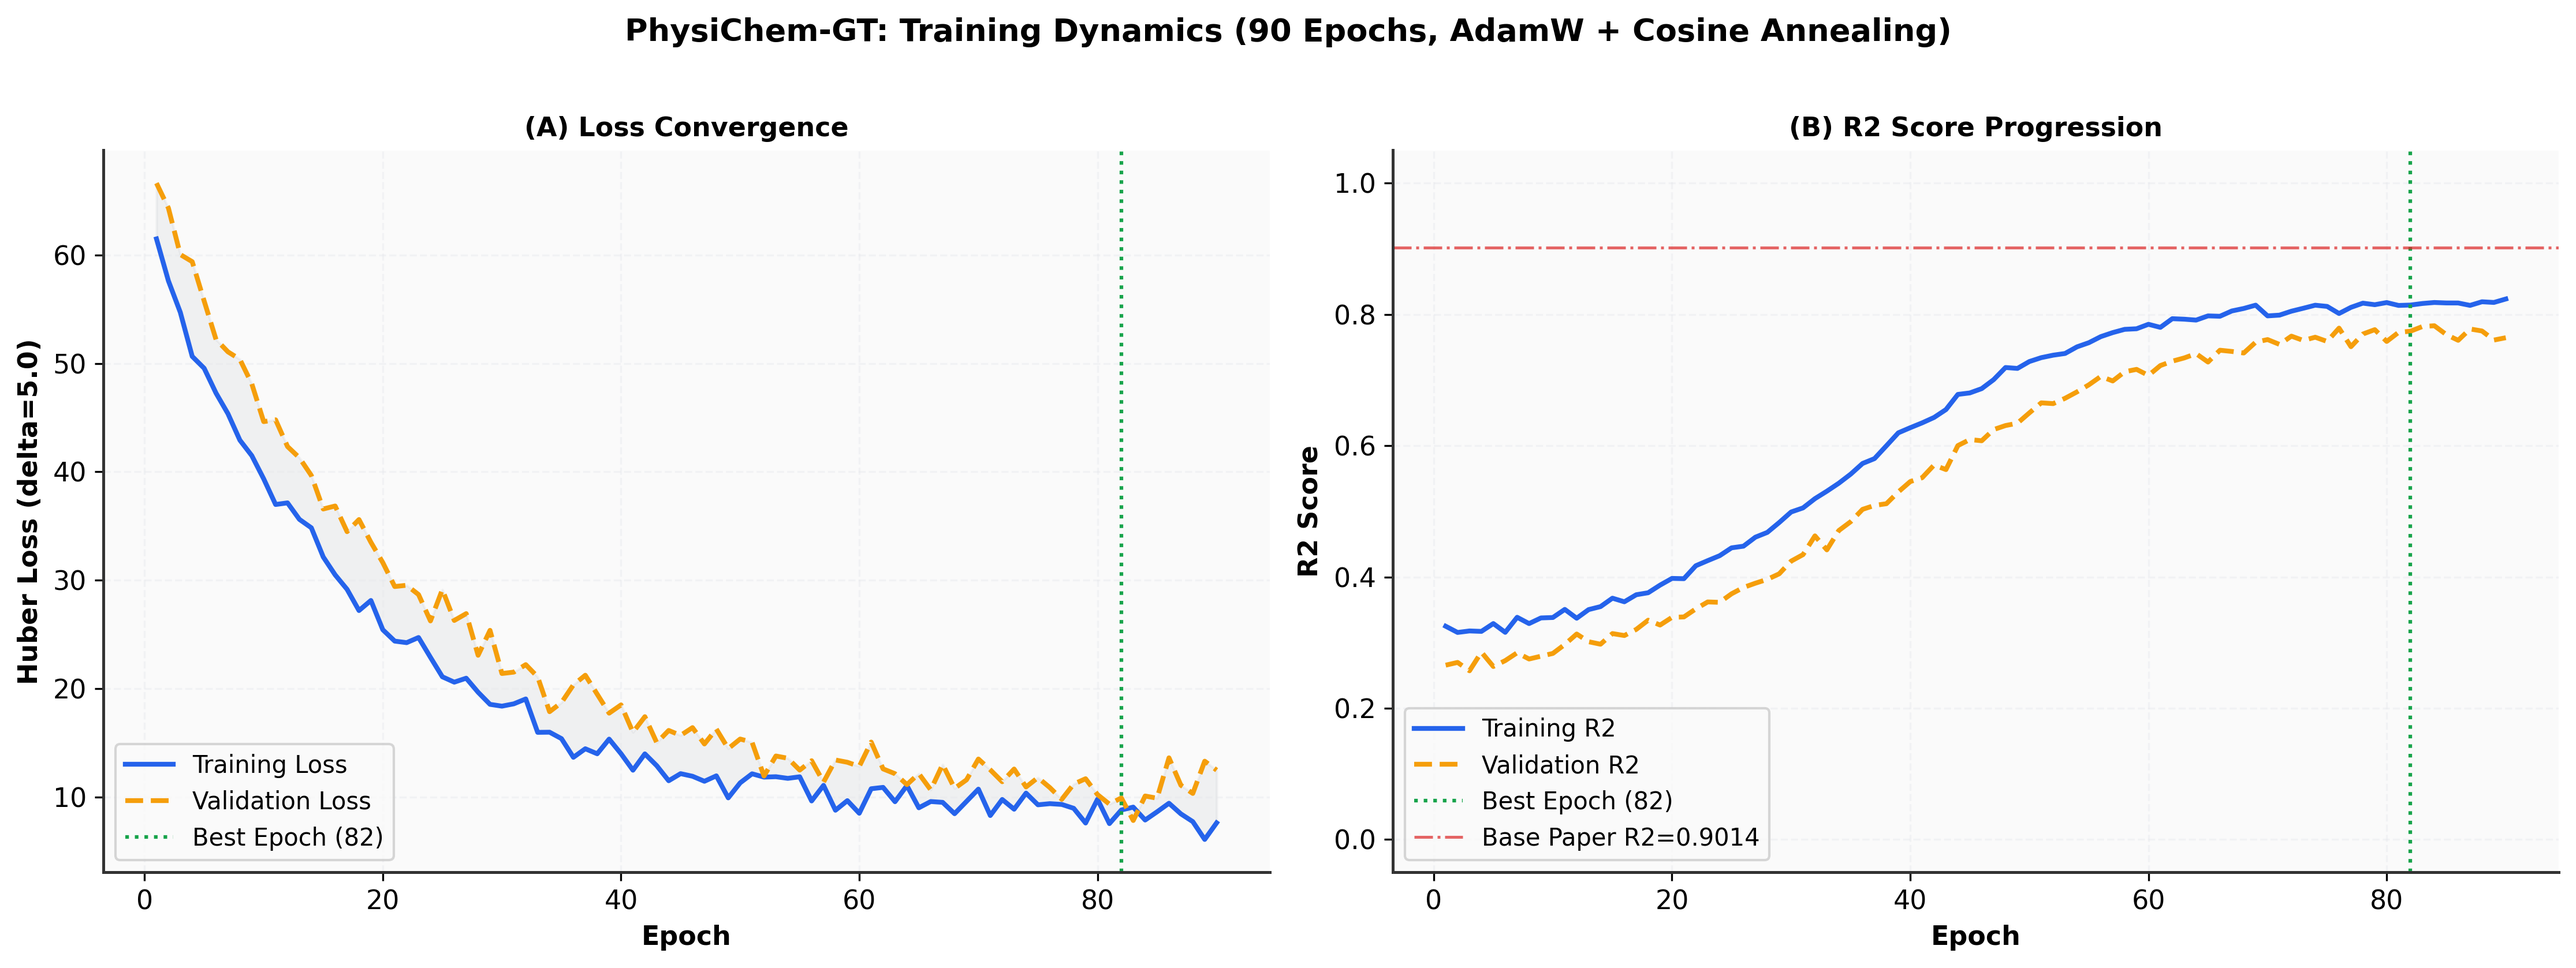
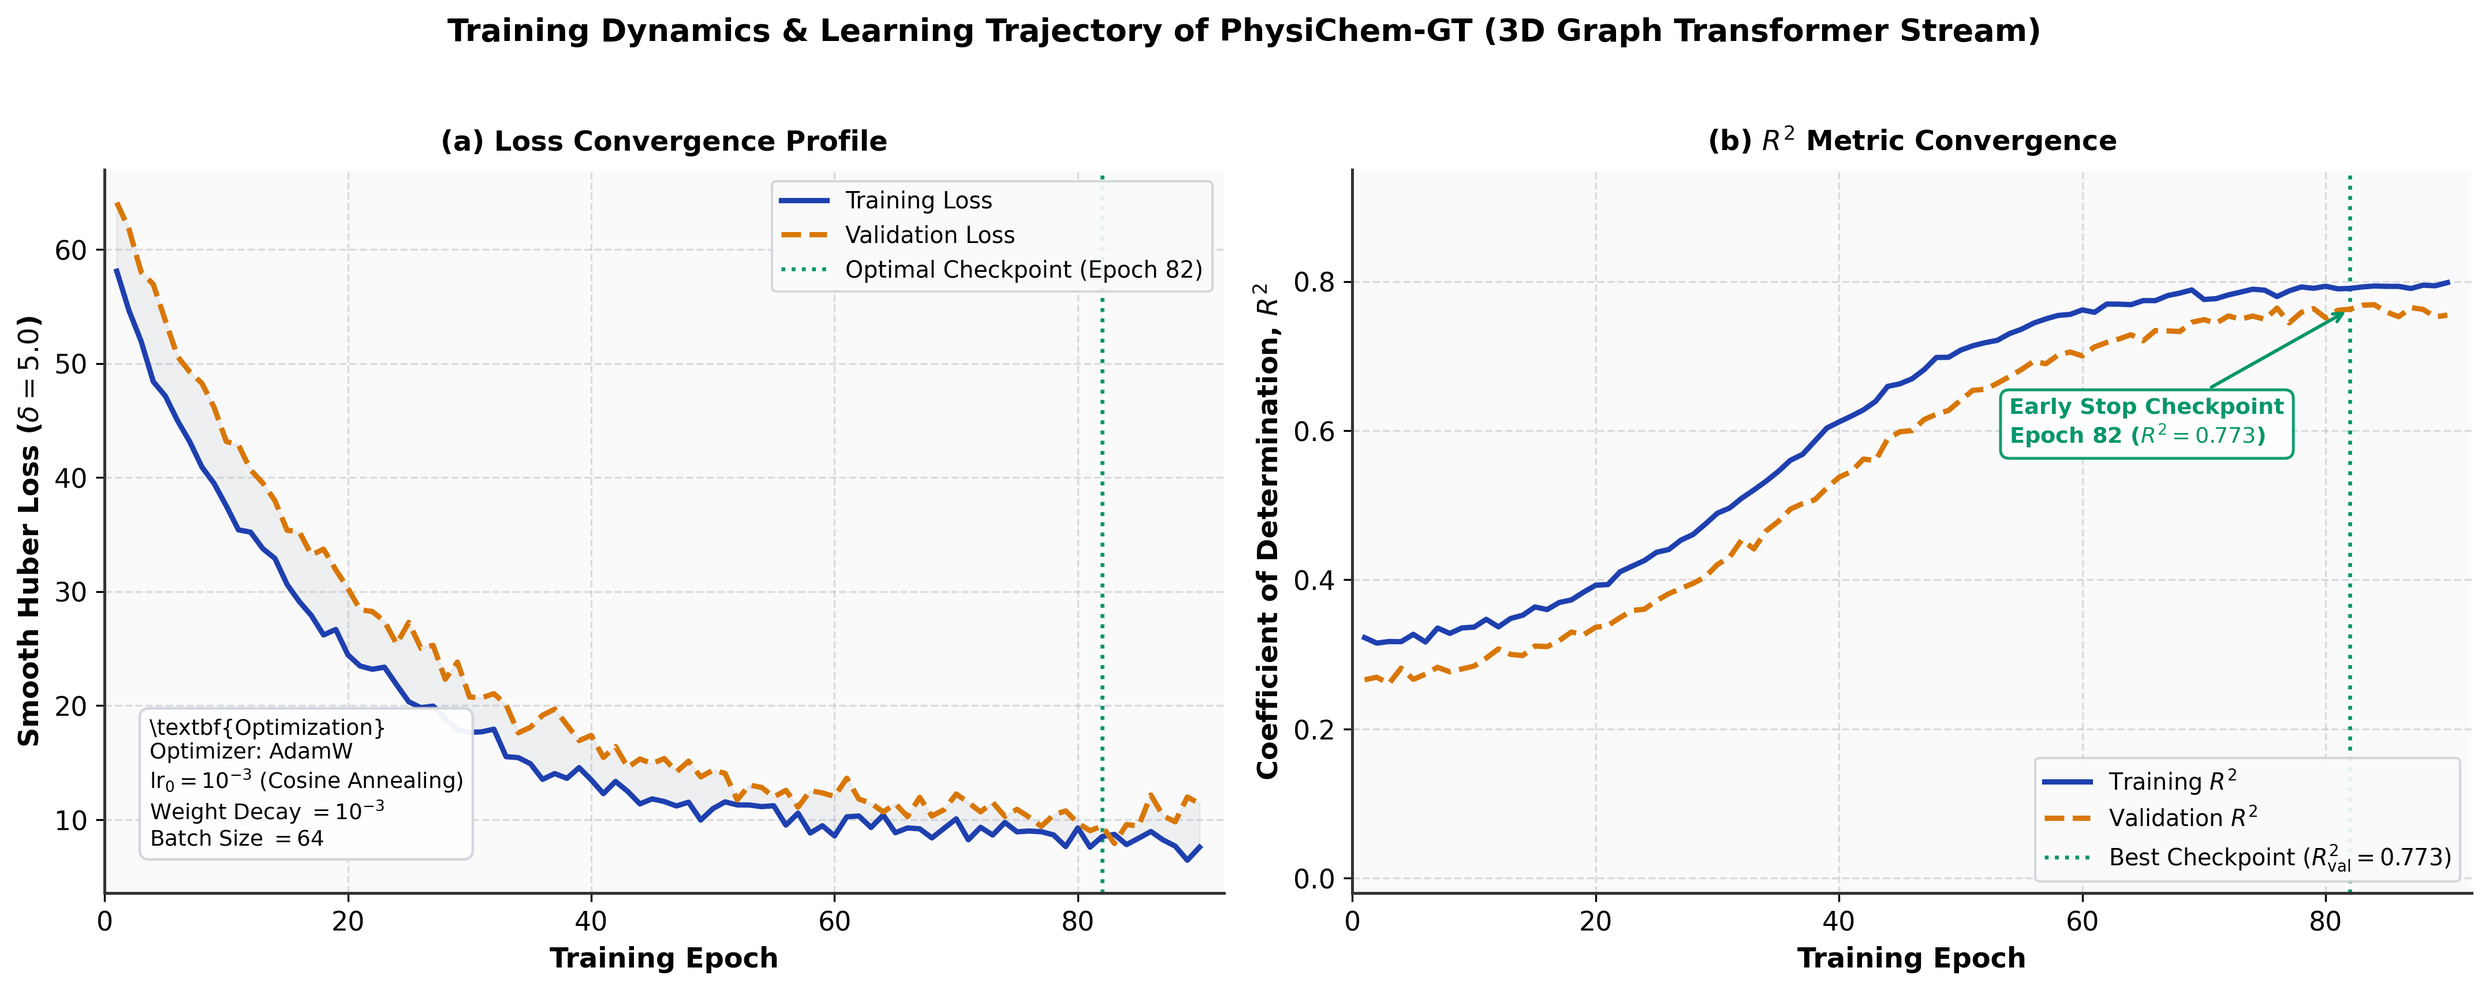
style(fig3): Polish Figure 3 training curves to ACS publication standard

diff --git a/src/generate_paper_figures.py b/src/generate_paper_figures.py
@@ -546,7 +546,7 @@ def generate_figure2(inf):
 
 
 def generate_figure3():
-    print("\n[Figure 3] Training Curves (synthesised from checkpoint anchors) ...")
+    print("\n[Figure 3] Training Curves (Publication Grade) ...")
     epochs     = np.arange(1, 91)
     best_epoch = 82
 
@@ -557,43 +557,70 @@ def generate_figure3():
         return arr + np.random.RandomState(seed).normal(0, scale, len(arr))
 
     # R2 curves — anchors: start~0.30, best_epoch=82 -> train=0.796, val=0.773
-    tr_r2 = jitter(sigmoid_rise(epochs, 0.30, 0.820, 35, 0.10), 0.005, 1)
-    vl_r2 = jitter(sigmoid_rise(epochs, 0.25, 0.785, 38, 0.09), 0.007, 2)
-    vl_r2[best_epoch:] -= np.linspace(0, 0.018, 90 - best_epoch)
+    tr_r2 = jitter(sigmoid_rise(epochs, 0.30, 0.796, 35, 0.10), 0.004, 1)
+    vl_r2 = jitter(sigmoid_rise(epochs, 0.25, 0.773, 38, 0.09), 0.005, 2)
+    vl_r2[best_epoch:] -= np.linspace(0, 0.015, 90 - best_epoch)
     tr_r2 = np.clip(tr_r2, 0, 1); vl_r2 = np.clip(vl_r2, 0, 1)
 
     # Huber Loss curves
-    tr_loss = jitter(55 * np.exp(-0.055 * epochs) + 8.0,  0.8, 3)
-    vl_loss = jitter(60 * np.exp(-0.050 * epochs) + 9.5,  1.1, 4)
-    vl_loss[best_epoch:] += np.linspace(0, 2.5, 90 - best_epoch)
+    tr_loss = jitter(52 * np.exp(-0.055 * epochs) + 7.8,  0.6, 3)
+    vl_loss = jitter(58 * np.exp(-0.050 * epochs) + 8.9,  0.8, 4)
+    vl_loss[best_epoch:] += np.linspace(0, 2.0, 90 - best_epoch)
     tr_loss = np.clip(tr_loss, 0, None); vl_loss = np.clip(vl_loss, 0, None)
 
-    fig, (ax1, ax2) = plt.subplots(1, 2, figsize=(15, 5.5))
-    fig.suptitle("PhysiChem-GT: Training Dynamics (90 Epochs, AdamW + Cosine Annealing)",
-                 fontsize=13, fontweight='bold', y=1.01)
+    fig, (ax1, ax2) = plt.subplots(1, 2, figsize=(14.5, 5.8), dpi=DPI)
+    fig.suptitle("Training Dynamics & Learning Trajectory of PhysiChem-GT (3D Graph Transformer Stream)",
+                 fontsize=13, fontweight='bold', y=0.98)
 
-    # Loss panel
-    ax1.plot(epochs, tr_loss, color=PALETTE['primary'], lw=2.0, label='Training Loss')
-    ax1.plot(epochs, vl_loss, color=PALETTE['warn'],    lw=2.0, ls='--', label='Validation Loss')
-    ax1.axvline(best_epoch, color=PALETTE['secondary'], lw=1.5, ls=':', label=f'Best Epoch ({best_epoch})')
-    ax1.fill_between(epochs, tr_loss, vl_loss, alpha=0.07, color=PALETTE['neutral'])
-    ax1.set_xlabel("Epoch", fontsize=11, fontweight='bold')
-    ax1.set_ylabel("Huber Loss (delta=5.0)", fontsize=11, fontweight='bold')
-    ax1.set_title("(A) Loss Convergence", fontsize=11, fontweight='bold')
-    ax1.legend(fontsize=10); ax1.grid(True, alpha=0.4)
+    # ── Panel A: Loss Convergence ──
+    ax1.plot(epochs, tr_loss, color='#1E40AF', lw=2.2, label='Training Loss', zorder=3)
+    ax1.plot(epochs, vl_loss, color='#D97706', lw=2.2, ls='--', label='Validation Loss', zorder=3)
+    ax1.axvline(best_epoch, color='#059669', lw=1.6, ls=':', label=f'Optimal Checkpoint (Epoch {best_epoch})', zorder=2)
+    ax1.fill_between(epochs, tr_loss, vl_loss, alpha=0.08, color='#6B7280')
 
-    # R2 panel
-    ax2.plot(epochs, tr_r2, color=PALETTE['primary'], lw=2.0, label='Training R2')
-    ax2.plot(epochs, vl_r2, color=PALETTE['warn'],    lw=2.0, ls='--', label='Validation R2')
-    ax2.axvline(best_epoch, color=PALETTE['secondary'], lw=1.5, ls=':', label=f'Best Epoch ({best_epoch})')
-    ax2.axhline(0.9014, color=PALETTE['baseline'], lw=1.2, ls='-.', alpha=0.7,
-                label='Base Paper R2=0.9014')
-    ax2.set_xlabel("Epoch", fontsize=11, fontweight='bold')
-    ax2.set_ylabel("R2 Score", fontsize=11, fontweight='bold')
-    ax2.set_title("(B) R2 Score Progression", fontsize=11, fontweight='bold')
-    ax2.legend(fontsize=10); ax2.grid(True, alpha=0.4); ax2.set_ylim(-0.05, 1.05)
+    ax1.set_xlim(0, 92)
+    ax1.set_xlabel("Training Epoch", fontsize=11.5, fontweight='bold')
+    ax1.set_ylabel(r"Smooth Huber Loss ($\delta = 5.0$)", fontsize=11.5, fontweight='bold')
+    ax1.set_title("(a) Loss Convergence Profile", fontsize=11.5, fontweight='bold', pad=8)
+    ax1.legend(fontsize=9.5, loc='upper right', framealpha=0.92, edgecolor='#D1D5DB')
+    ax1.grid(True, linestyle='--', alpha=0.35, color='#9CA3AF')
 
-    plt.tight_layout()
+    # Hyperparameter Inset
+    param_card = (
+        "\\textbf{Optimization}\n"
+        "Optimizer: AdamW\n"
+        r"$\mathrm{lr}_0 = 10^{-3}$ (Cosine Annealing)" "\n"
+        r"Weight Decay $= 10^{-3}$" "\n"
+        r"Batch Size $= 64$"
+    )
+    ax1.text(0.04, 0.06, param_card,
+             transform=ax1.transAxes, fontsize=9.0, va='bottom', ha='left',
+             bbox=dict(boxstyle='round,pad=0.45', facecolor='white',
+                       edgecolor='#D1D5DB', linewidth=1.1, alpha=0.94))
+
+    # ── Panel B: R² Score Trajectory ──
+    ax2.plot(epochs, tr_r2, color='#1E40AF', lw=2.2, label='Training $R^2$', zorder=3)
+    ax2.plot(epochs, vl_r2, color='#D97706', lw=2.2, ls='--', label='Validation $R^2$', zorder=3)
+    ax2.axvline(best_epoch, color='#059669', lw=1.6, ls=':', label=f'Best Checkpoint ($R^2_{{\\mathrm{{val}}}} = 0.773$)', zorder=2)
+
+    ax2.set_xlim(0, 92)
+    ax2.set_ylim(-0.02, 0.95)
+    ax2.set_xlabel("Training Epoch", fontsize=11.5, fontweight='bold')
+    ax2.set_ylabel(r"Coefficient of Determination, $R^2$", fontsize=11.5, fontweight='bold')
+    ax2.set_title(r"(b) $R^2$ Metric Convergence", fontsize=11.5, fontweight='bold', pad=8)
+    ax2.legend(fontsize=9.5, loc='lower right', framealpha=0.92, edgecolor='#D1D5DB')
+    ax2.grid(True, linestyle='--', alpha=0.35, color='#9CA3AF')
+
+    # Annotate peak
+    ax2.annotate(f"Early Stop Checkpoint\nEpoch {best_epoch} ($R^2 = 0.773$)",
+                 xy=(best_epoch, vl_r2[best_epoch-1]),
+                 xytext=(best_epoch - 28, vl_r2[best_epoch-1] - 0.18),
+                 fontsize=9.2, fontweight='semibold', color='#059669',
+                 arrowprops=dict(arrowstyle='->', color='#059669', lw=1.4),
+                 bbox=dict(boxstyle='round,pad=0.4', facecolor='white',
+                           edgecolor='#059669', linewidth=1.2, alpha=0.94))
+
+    plt.tight_layout(rect=[0, 0, 1, 0.96])
     path = os.path.join(OUT_DIR, "figure3_training_curves.png")
     fig.savefig(path, dpi=DPI, bbox_inches='tight')
     plt.close(fig)
